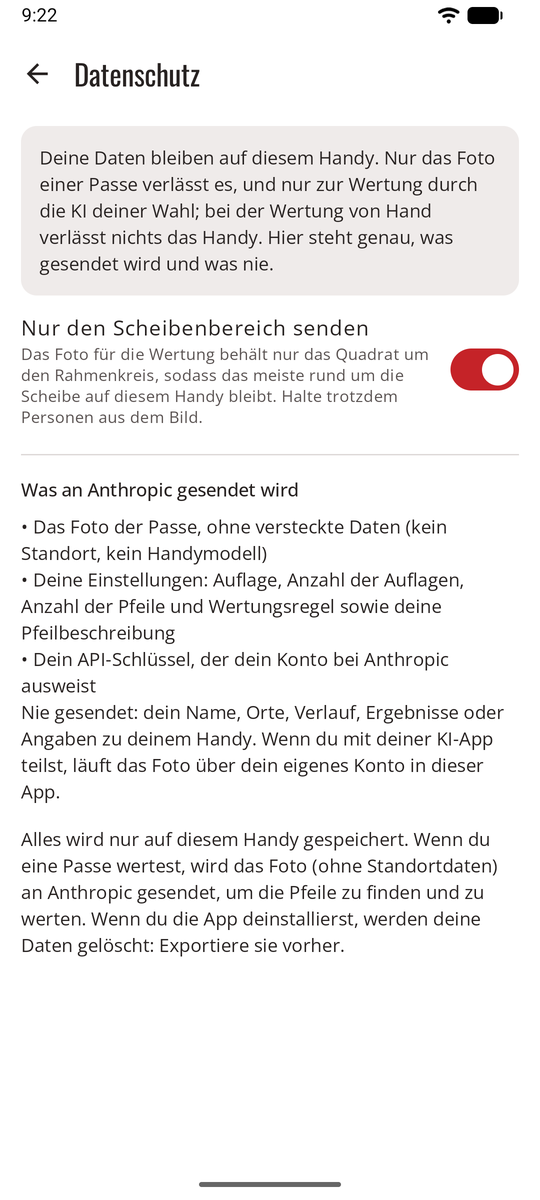
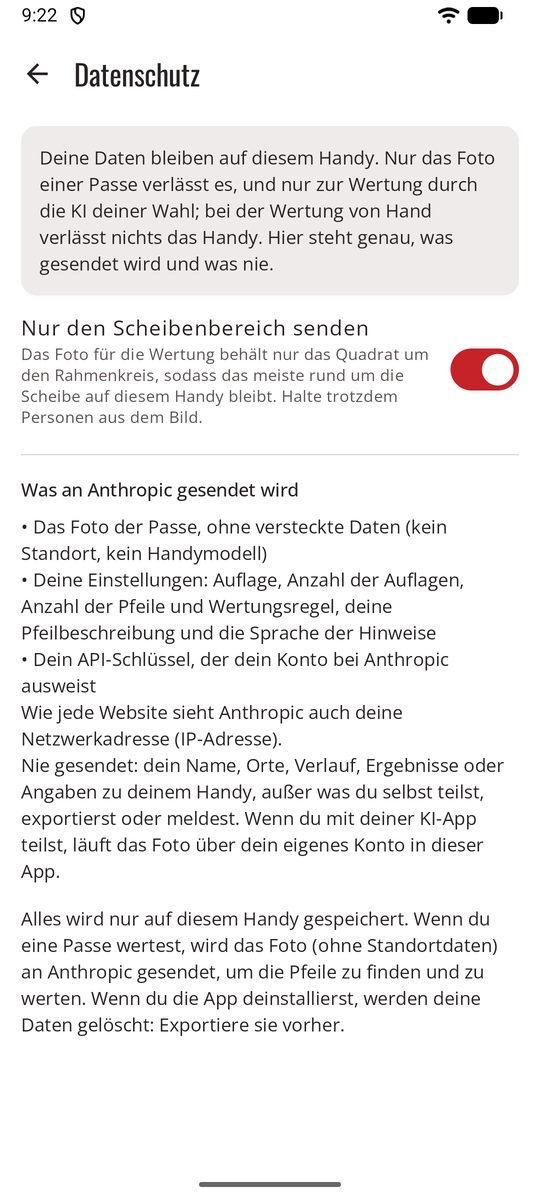
Update the sagitt·AI·re site

diff --git a/sagittaire/docs/stylesheets/extra.css b/sagittaire/docs/stylesheets/extra.css
@@ -1,4 +1,5 @@
 /* sagitt·AI·re is Archery Canada's app: its red, ink and white; Oswald for headings, Open Sans for text (theme font). */
+/* The privacy plugin (mkdocs.yml) downloads this at build time: the site serves the font itself. */
 @import url("https://fonts.googleapis.com/css2?family=Oswald:wght@500;600;700&display=swap");
 :root, [data-md-color-scheme="default"] {
   --md-primary-fg-color: #c52328;

diff --git a/sagittaire/docs/privacy-policy.fr.md b/sagittaire/docs/privacy-policy.fr.md
@@ -1,6 +1,6 @@
 # Politique de confidentialité
 
-*Version 3 · En vigueur le 13 novembre 2026*
+*Version 4 · En vigueur le 13 novembre 2026*
 
 La présente politique explique quels renseignements l’application sagitt·AI·re (l’« Application ») traite, où ils sont conservés, quand ils quittent votre appareil et ce que vous pouvez faire à leur égard. Elle fait partie des conditions d’utilisation. Le « Développeur » désigne le développeur de sagitt·AI·re.
 
@@ -37,13 +37,20 @@ Votre nom, vos lieux, votre historique, vos pointages et les détails de votre a
 
 **Signaler un problème de comptage.** Lorsque vous touchez Signaler un problème de comptage sur une volée, l’Application rédige un e-mail sur cette volée (blason, distance, règle, modèle d’IA, et chaque flèche telle que l’IA l’a comptée et telle qu’elle est maintenant) et, si vous cochez la case, y joint la copie de la photo envoyée au service d’IA. Votre application de messagerie s’ouvre sans destinataire : vous choisissez à qui l’envoyer, et rien n’est envoyé tant que vous ne l’envoyez pas. Vos arcs, lieux et dates n’y figurent pas.
 
-**Exportations.** Lorsque vous exportez vos registres, l’Application écrit un fichier à l’endroit que vous choisissez (par exemple, vos téléchargements ou un espace de stockage en ligne). Les clés API et les adresses des services ne sont jamais incluses dans une exportation. Gardez ce fichier en lieu sûr : quiconque l’a en main peut lire vos registres.
+**Exportations.** Lorsque vous exportez vos registres, l’Application écrit un fichier, non chiffré, à l’endroit que vous choisissez (par exemple, vos téléchargements ou un espace de stockage en ligne). Selon ce que vous choisissez d’exporter, il contient vos arcs, vos lieux, vos séances, vos volées, vos flèches et vos notes, la réponse du service d’IA pour chaque volée, vos réglages autres que les clés et les adresses, et les photos de vos volées en pleine taille et non recadrées, avec toute personne ou toute chose qui y figure. Les clés API et les adresses des services ne sont jamais incluses dans une exportation. Gardez ce fichier en lieu sûr et supprimez les copies dont vous n’avez plus besoin : quiconque l’a en main peut lire vos registres et voir vos photos.
 
 **Vérification d’une clé.** Le bouton « Vérifier la clé » envoie votre clé à son service pour confirmer qu’elle fonctionne.
 
 ## 4. Services d’IA
 
 Chaque service d’IA que vous utilisez est une entreprise distincte qui a ses propres conditions et sa propre politique de confidentialité. Ce sont elles qui déterminent comment il utilise, conserve et protège ce qu’il reçoit, notamment s’il peut s’en servir pour entraîner ses modèles, et où dans le monde il le traite, ce qui peut être à l’extérieur du Québec et du Canada. Lisez-les avant d’utiliser le service, et choisissez le service et les réglages de votre compte en conséquence. Le Développeur n’a aucun contrôle sur ces services et ne reçoit rien d’eux.
+
+En novembre 2026, les services que l’Application propose indiquent ce qui suit au sujet de ce qu’ils reçoivent par leurs API. Leurs propres conditions l’emportent et peuvent changer, et le site Web de sagitt·AI·re indique ce que chacun en dit :
+
+- ils le conservent jusqu’à 30 ou 55 jours, selon le service, pour détecter les abus, et certains le conservent jusqu’à 2 ans quand leurs systèmes de sécurité le signalent ;
+- certains vérifient les images à la recherche de matériel d’abus pédosexuel et conservent les images signalées pour examen ;
+- avec un compte payant, ils ne s’en servent pas pour entraîner leurs modèles ni pour améliorer leurs produits, sauf si vous l’acceptez dans votre compte ;
+- l’offre gratuite d’un des services s’en sert pour améliorer ses produits et permet à des examinateurs humains de le lire : avec ce service, utilisez une clé dont la facturation est activée, comme l’expliquent les Réglages de l’Application.
 
 ## 5. Autorisations
 
@@ -68,14 +75,18 @@ L’Application protège vos renseignements au moyen de l’isolement des applic
 
 L’Application ne s’adresse pas aux enfants de moins de 14 ans et ne recueille de renseignements auprès de personne. Les services d’IA fixent leur propre âge minimum. Un parent ou un tuteur devrait configurer tout service d’IA qu’un enfant utilise, ou choisir le comptage manuel, qui n’envoie rien.
 
-## 10. Modifications de la présente politique
+## 10. Le site Web
+
+Le site Web de sagitt·AI·re (ashencroft-hyperautomation.github.io/sagittaire) est hébergé par GitHub. Quand vous le visitez, GitHub reçoit votre adresse réseau (IP) et les pages que vous demandez, et les traite selon la Déclaration de confidentialité de GitHub ; le Développeur ne reçoit pas ces journaux. Le site Web n’a ni compte, ni témoins (cookies), ni outil d’analyse, ni publicité, ni pistage. Ses polices de caractères et ses autres fichiers sont servis par le site Web lui-même, de sorte que, dans un navigateur récent, le visiter ne contacte aucun autre service. Votre choix d’apparence claire ou sombre n’est mémorisé que par votre navigateur. Si vous ouvrez un ticket (issue) sur GitHub, ce que vous écrivez est public et traité par GitHub selon ses propres conditions.
+
+## 11. Modifications de la présente politique
 
 Si la présente politique change de façon importante, la nouvelle version sera affichée dans l’Application, avec sa date, et il vous sera demandé d’accepter de nouveau les conditions d’utilisation avant de continuer. La version en vigueur se trouve toujours dans l’Application (Réglages → À propos et mentions légales) et sur le site Web de sagitt·AI·re.
 
-## 11. Questions
+## 12. Questions
 
 L’Application et son site Web sont créés pro bono pour Tir à l’arc Canada et gérés par le Développeur. Pour toute question sur la présente politique, ouvrez un billet (« issue ») à l’adresse github.com/ashencroft-hyperautomation/ashencroft-hyperautomation.github.io/issues. Les billets sont publics : n’y incluez aucun renseignement personnel, aucune photo et aucune clé API.
 
-## 12. Langue
+## 13. Langue
 
 La présente politique est rédigée en français et en anglais, et les deux versions font également foi. *This policy is drawn up in French and in English ; both versions are equally authoritative.*

diff --git a/sagittaire/docs/privacy-policy.es.md b/sagittaire/docs/privacy-policy.es.md
@@ -1,6 +1,6 @@
 # Política de privacidad
 
-*Versión 3 · Vigente desde el 13 de noviembre de 2026*
+*Versión 4 · Vigente desde el 13 de noviembre de 2026*
 
 *Esta es una traducción que se ofrece solo para tu comodidad; únicamente las versiones en francés y en inglés hacen fe y, si hay cualquier diferencia, prevalecen sobre esta.*
 
@@ -39,13 +39,20 @@ Tu nombre, tus lugares, tu historial, tus puntuaciones y los datos de tu disposi
 
 **Informar de un problema de puntuación.** Cuando tocas Informar de un problema de puntuación en una tanda, la App redacta un correo sobre esa tanda (diana, distancia, regla, modelo de IA, y cada flecha tal como la puntuó la IA y como está ahora) y, si lo marcas, adjunta la copia de la foto que se envía al servicio de IA. Tu app de correo se abre sin destinatario: tú eliges a quién enviarlo, y no se envía nada hasta que lo envíes. Tus arcos, lugares y fechas no se incluyen.
 
-**Exportaciones.** Cuando exportas tus registros, la App escribe un archivo en el lugar que elijas (por ejemplo, tu carpeta de descargas o una unidad en la nube). Las claves de API y las direcciones de los servicios nunca se incluyen en una exportación. Guarda el archivo en un lugar privado: cualquiera que tenga el archivo puede leer tus registros.
+**Exportaciones.** Cuando exportas tus registros, la App escribe un archivo, sin cifrar, en el lugar que elijas (por ejemplo, tu carpeta de descargas o una unidad en la nube). Según lo que elijas exportar, contiene tus arcos, lugares, sesiones, tandas, flechas y notas, la respuesta del servicio de IA para cada tanda, tus ajustes salvo las claves y las direcciones, y las fotos de tus tandas a tamaño completo y sin recortar, con cualquier persona o cosa que aparezca en ellas. Las claves de API y las direcciones de los servicios nunca se incluyen en una exportación. Guarda el archivo en un lugar privado y borra las copias que ya no necesites: cualquiera que tenga el archivo puede leer tus registros y ver tus fotos.
 
 **Verificar una clave.** El botón «Comprobar clave» envía tu clave a su servicio para confirmar que funciona.
 
 ## 4. Servicios de IA
 
 Cada servicio de IA que usas es una empresa independiente con sus propias condiciones y su propia política de privacidad, que determinan cómo usa, conserva y protege lo que recibe, incluido si puede usarlo para entrenar sus modelos, y en qué lugar del mundo lo trata, que puede estar fuera de Québec y de Canadá. Léelas antes de usar el servicio, y elige el servicio y la configuración de tu cuenta en él en consecuencia. El Desarrollador no tiene ningún control sobre estos servicios y no recibe nada de ellos.
+
+A noviembre de 2026, los servicios que ofrece la App dicen lo siguiente sobre lo que reciben a través de sus API. Sus propias condiciones prevalecen y pueden cambiar, y el sitio web de sagitt·AI·re indica lo que dice cada uno:
+
+- lo conservan hasta 30 o 55 días, según el servicio, para detectar abusos, y algunos lo conservan hasta 2 años cuando sus sistemas de seguridad lo marcan;
+- algunos revisan las imágenes en busca de material de abuso sexual infantil y conservan las imágenes marcadas para su revisión;
+- con una cuenta de pago, no lo usan para entrenar sus modelos ni para mejorar sus productos, salvo que lo aceptes en tu cuenta;
+- el nivel gratuito de uno de los servicios lo usa para mejorar sus productos y permite que revisores humanos lo lean: con ese servicio, usa una clave con la facturación activada, como explican los Ajustes de la App.
 
 ## 5. Permisos
 
@@ -70,14 +77,18 @@ La App protege tu información con el aislamiento de aplicaciones (sandbox) de A
 
 La App no está dirigida a menores de 14 años y no recopila información de nadie. Los servicios de IA fijan sus propias edades mínimas. Un padre, una madre o un tutor debería configurar cualquier servicio de IA que use un menor, o elegir la puntuación manual, que no envía nada.
 
-## 10. Cambios en esta política
+## 10. El sitio web
+
+El sitio web de sagitt·AI·re (ashencroft-hyperautomation.github.io/sagittaire) está alojado por GitHub. Cuando lo visitas, GitHub recibe tu dirección de red (IP) y las páginas que pides, y las trata según la Declaración de privacidad de GitHub; el Desarrollador no recibe estos registros. El sitio web no tiene cuentas, cookies, analítica, publicidad ni rastreo. Sus fuentes y demás archivos se sirven desde el propio sitio web, así que, en un navegador actual, visitarlo no contacta con ningún otro servicio. Tu elección de apariencia clara u oscura solo la recuerda tu navegador. Si abres una incidencia (issue) en GitHub, lo que escribas es público y GitHub lo trata según sus propias condiciones.
+
+## 11. Cambios en esta política
 
 Si esta política cambia de forma sustancial, la nueva versión se mostrará en la App, con su fecha, y se te pedirá que vuelvas a aceptar las condiciones de uso antes de continuar. La versión vigente está siempre en la App (Ajustes → Información y aviso legal) y en el sitio web de sagitt·AI·re.
 
-## 11. Preguntas
+## 12. Preguntas
 
 La App y su sitio web están hechos pro bono para Archery Canada y los gestiona el Desarrollador. Si tienes preguntas sobre esta política, abre una incidencia (issue) en github.com/ashencroft-hyperautomation/ashencroft-hyperautomation.github.io/issues. Las incidencias son públicas: no incluyas información personal, fotos ni claves de API.
 
-## 12. Idioma
+## 13. Idioma
 
 Esta política está redactada en francés y en inglés; ambas versiones hacen igualmente fe. *Cette politique est rédigée en français et en anglais; les deux versions font également foi.*

diff --git a/sagittaire/docs/privacy-policy.md b/sagittaire/docs/privacy-policy.md
@@ -1,6 +1,6 @@
 # Privacy policy
 
-*Version 3 · Effective November 13, 2026*
+*Version 4 · Effective November 13, 2026*
 
 This policy explains what information the sagitt·AI·re application (the "App") handles, where it is kept, when it leaves your device and what you can do about it. It is part of the terms of use. "Developer" means the developer of sagitt·AI·re.
 
@@ -37,13 +37,20 @@ Your name, places, history, scores and details about your device are never sent.
 
 **Reporting a scoring problem.** When you tap Report a scoring problem on an end, the App writes an email about that end (face, distance, rule, AI model, and each arrow as the AI scored it and as it is now) and, if you tick it, attaches the copy of the photo sent to the AI service. Your email app opens with no recipient: you choose who to send it to, and nothing is sent until you send it. Your bows, places and dates are not included.
 
-**Exports.** When you export your records, the App writes one file where you choose (for example, your Downloads or a cloud drive). API keys and service addresses are never put in an export. Keep the file somewhere private: anyone with the file can read your records.
+**Exports.** When you export your records, the App writes one file, which is not encrypted, where you choose (for example, your Downloads or a cloud drive). Depending on what you choose to export, it holds your bows, places, sessions, ends, arrows and notes, the AI service's answer for each end, your settings other than keys and addresses, and the photos of your ends at full size and uncropped, with anyone or anything that appears in them. API keys and service addresses are never put in an export. Keep the file somewhere private and delete copies you no longer need: anyone with the file can read your records and see your photos.
 
 **Checking a key.** The "Check key" button sends your key to its service to confirm it works.
 
 ## 4. AI services
 
 Each AI service you use is a separate company with its own terms and privacy policy, which decide how it uses, keeps and protects what it receives, including whether it may use it to train its models, and where in the world it processes it, which may be outside Québec and Canada. Read them before you use the service, and choose the service and the settings of your account with it accordingly. The Developer has no control over these services and receives nothing from them.
+
+As of November 2026, the services the App offers say this about what they receive through their APIs. Their own terms prevail and may change, and the sagitt·AI·re website lists what each one says:
+
+- they keep it for up to 30 or 55 days, depending on the service, to detect abuse, and some keep it up to 2 years when their safety systems flag it;
+- some check images for child sexual abuse material and keep flagged images for review;
+- with a paid account, they do not use it to train their models or improve their products, unless you agree to it in your account;
+- one service's free tier uses it to improve its products and lets human reviewers read it: with that service, use a key with billing turned on, as the App's Settings explain.
 
 ## 5. Permissions
 
@@ -68,14 +75,18 @@ The App protects your information with Android's app sandbox, encrypts your API 
 
 The App is not directed at children under 14 and collects no information from anyone. AI services set their own minimum ages. A parent or guardian should set up any AI service a child uses, or choose manual scoring, which sends nothing.
 
-## 10. Changes to this policy
+## 10. The website
+
+The sagitt·AI·re website (ashencroft-hyperautomation.github.io/sagittaire) is hosted by GitHub. When you visit it, GitHub receives your network (IP) address and the pages you ask for, and handles them under the GitHub Privacy Statement; the Developer does not receive these logs. The website has no account, no cookies, no analytics, no advertising and no tracking. Its fonts and other files are served from the website itself, so in a current browser, visiting it contacts no other service. Your choice of light or dark appearance is remembered by your browser only. If you open an issue on GitHub, what you write is public and handled by GitHub under its own terms.
+
+## 11. Changes to this policy
 
 If this policy changes in substance, the new version will be shown in the App, with its date, and you will be asked to accept the terms of use again before continuing. The current version is always in the App (Settings → About and legal) and on the sagitt·AI·re website.
 
-## 11. Questions
+## 12. Questions
 
 The App and its website are made pro bono for Archery Canada and run by the Developer. For questions about this policy, open an issue at github.com/ashencroft-hyperautomation/ashencroft-hyperautomation.github.io/issues. Issues are public: do not include personal information, photos or API keys.
 
-## 12. Language
+## 13. Language
 
 This policy is drawn up in French and in English; both versions are equally authoritative. *Cette politique est rédigée en français et en anglais; les deux versions font également foi.*

diff --git a/sagittaire/docs/privacy.de.md b/sagittaire/docs/privacy.de.md
@@ -13,7 +13,7 @@ Das ist alles: deine Bögen und Orte, deine Einheiten, jede Passe mit ihrem Foto
 - Andere Apps können es nicht lesen, und die Fotos sind nicht in deiner Galerie.
 - Nichts geht automatisch in eine Cloud-Sicherung oder auf ein neues Handy.
 - Es gibt kein Konto, keine Werbung, keine Analyse und kein Tracking.
-- **Wenn du die App deinstallierst, wird alles gelöscht**, also exportiere vorher: **Einstellungen → Speicher und Sicherung** speichert alles in eine Datei, die du behältst, und stellt es auf demselben oder einem neuen Handy wieder her. API-Schlüssel und Adressen von Diensten kommen nie in einen Export.
+- **Wenn du die App deinstallierst, wird alles gelöscht**, also exportiere vorher: **Einstellungen → Speicher und Sicherung** speichert alles in eine Datei, die du behältst, und stellt es auf demselben oder einem neuen Handy wieder her. API-Schlüssel und Adressen von Diensten kommen nie in einen Export. Die Datei ist nicht verschlüsselt und enthält deine Fotos in voller Größe, unbeschnitten: Bewahre sie an einem privaten Ort auf.
 
 ## Was gesendet wird, und wann { #what-is-sent-and-when }
 
@@ -45,11 +45,13 @@ Die Einstellungen zeigen dieselbe Liste unter **Was an … gesendet wird**, für
 
 | Dienst | Zum Trainieren von KI genutzt? | Aufbewahrt |
 |---------|-------------------|------|
-| **Anthropic** | Nein | Nach den kommerziellen Bedingungen von Anthropic |
-| **OpenAI** | Nein, außer du stimmst in deinem Konto zu | sagitt·AI·re bittet OpenAI, die Anfrage nicht zu speichern. Sicherheitsprotokolle werden bis zu 30 Tage aufbewahrt. |
-| **Google Gemini**, mit aktivierter Abrechnung | Nein | Für begrenzte Zeit protokolliert, um Missbrauch zu erkennen |
+| **Anthropic** | Nein | Innerhalb von 30 Tagen gelöscht; bis zu 2 Jahre, wenn seine Sicherheitssysteme es markieren |
+| **OpenAI** | Nein, außer du stimmst in deinem Konto zu | sagitt·AI·re bittet OpenAI, die Anfrage nicht zu speichern. Sicherheitsprotokolle werden bis zu 30 Tage aufbewahrt. Bilder werden auf Darstellungen sexuellen Kindesmissbrauchs geprüft. |
+| **Google Gemini**, mit aktivierter Abrechnung | Nein | 55 Tage protokolliert, um Missbrauch zu erkennen |
 | **Google Gemini**, kostenlose Stufe | **Ja**: kann genutzt werden, um die Produkte von Google zu verbessern, und von menschlichen Prüfern gelesen werden | Nicht angegeben |
 | **Ein OpenAI-kompatibler Dienst** oder **deine KI-App** | Hängt von diesem Dienst ab: Prüf seine Bedingungen | Hängt von diesem Dienst ab |
+
+So, wie es jeder Dienst im November 2026 angibt; ihre eigenen Bedingungen haben Vorrang und können sich ändern. Der verbindliche Text steht in der [Datenschutzerklärung](privacy-policy.md), Abschnitt 4.
 
 !!! warning "Gemini: Nimm einen Schlüssel mit aktivierter Abrechnung"
     In der kostenlosen Stufe von Google können deine Scheibenfotos von Google genutzt und von Prüfern gesehen werden. Nimm einen Schlüssel aus einem Google-Cloud-Projekt mit aktivierter Abrechnung. sagitt·AI·re kann das nicht für dich prüfen.
@@ -74,5 +76,9 @@ Der Spielmodus sendet nichts. Das Aussehen deiner Figur, dein Begleiter und dein
 | Internet | Für die automatische Wertung mit einem KI-Dienst (bei der Wertung von Hand nicht genutzt) |
 
 Keine Berechtigungen für Standort, Kontakte, Mikrofon oder Speicher. Zum Importieren eines Fotos dient die Fotoauswahl von Android, die sagitt·AI·re nur das Foto gibt, das du wählst.
+
+## Diese Website { #this-website }
+
+Diese Website wird von GitHub gehostet, das beim Besuch deine Netzwerkadresse (IP-Adresse) sieht. Es gibt keine Cookies, keine Analyse und kein Tracking, und die Schriften kommen von dieser Website, nicht von Google. Deine Wahl zwischen hell und dunkel merkt sich nur dein Browser.
 
 Mehr dazu, wie deine Daten geschützt sind: [Sicherheit](security.md).

diff --git a/sagittaire/docs/privacy.fr.md b/sagittaire/docs/privacy.fr.md
@@ -13,7 +13,7 @@ C'est tout : vos arcs et vos lieux, vos séances, chaque volée avec sa photo, 
 - Les autres applications ne peuvent pas les lire, et les photos ne sont pas dans votre galerie.
 - Rien ne part automatiquement vers une sauvegarde en ligne ou un nouveau téléphone.
 - Pas de compte, pas de publicité, pas de statistiques d'utilisation, pas de pistage.
-- **Désinstaller l'application efface tout**, alors exportez d'abord : **Réglages → Stockage et sauvegarde** enregistre tout dans un fichier que vous gardez, et le restaure sur le même téléphone ou un nouveau. Les clés API et les adresses de service ne sont jamais mises dans un export.
+- **Désinstaller l'application efface tout**, alors exportez d'abord : **Réglages → Stockage et sauvegarde** enregistre tout dans un fichier que vous gardez, et le restaure sur le même téléphone ou un nouveau. Les clés API et les adresses de service ne sont jamais mises dans un export. Le fichier n'est pas chiffré et contient vos photos en pleine taille, non recadrées : gardez-le en lieu sûr.
 
 ## Ce qui est envoyé, et quand
 
@@ -45,11 +45,13 @@ Les réglages affichent la même liste, sous **Ce qui est envoyé à …**, pour
 
 | Service | Sert à entraîner une IA ? | Conservation |
 |---------|---------------------------|--------------|
-| **Anthropic** | Non | Selon les conditions commerciales d'Anthropic |
-| **OpenAI** | Non, sauf si vous l'acceptez sur votre compte | sagitt·AI·re demande à OpenAI de ne pas garder la requête. Journaux de sécurité gardés jusqu'à 30 jours. |
-| **Google Gemini**, facturation activée | Non | Journalisé pendant une durée limitée pour détecter les abus |
+| **Anthropic** | Non | Supprimé dans les 30 jours ; jusqu'à 2 ans si ses systèmes de sécurité le signalent |
+| **OpenAI** | Non, sauf si vous l'acceptez sur votre compte | sagitt·AI·re demande à OpenAI de ne pas garder la requête. Journaux de sécurité gardés jusqu'à 30 jours. Les images sont vérifiées à la recherche de matériel d'abus pédosexuel. |
+| **Google Gemini**, facturation activée | Non | Journalisé 55 jours pour détecter les abus |
 | **Google Gemini**, offre gratuite | **Oui** : peut servir à améliorer les produits de Google, et être lu par des personnes | Non précisé |
 | **Un service compatible OpenAI**, ou **votre application d’IA** | Selon ce service : consultez ses conditions | Selon ce service |
+
+Tel que chaque service l'indique en novembre 2026 ; leurs propres conditions l'emportent et peuvent changer. Le texte officiel est dans la [politique de confidentialité](privacy-policy.md), section 4.
 
 !!! warning "Gemini : utilisez une clé avec la facturation activée"
     Avec l'offre gratuite de Google, vos photos de cible peuvent être utilisées par Google et vues par des examinateurs. Utilisez une clé d'un projet Google Cloud avec la facturation activée. sagitt·AI·re ne peut pas le vérifier à votre place.
@@ -74,5 +76,9 @@ Le mode jeu n’envoie rien. L’apparence de votre archer, votre compagnon et v
 | Internet | Pour le comptage automatique par un service d’IA (inutile en comptage manuel) |
 
 Aucune autorisation de position, de contacts, de micro ou de stockage. L'import d'une photo passe par le sélecteur de photos d'Android, qui ne donne à sagitt·AI·re que la photo que vous choisissez.
+
+## Ce site Web
+
+Ce site Web est hébergé par GitHub, qui voit votre adresse réseau (IP) quand vous le visitez. Il n'y a ni témoins (cookies), ni outil d'analyse, ni pistage, et ses polices de caractères viennent de ce site, pas de Google. Votre choix d'apparence claire ou sombre n'est mémorisé que par votre navigateur.
 
 Pour en savoir plus sur la protection de vos données : [Sécurité](security.md).

diff --git a/sagittaire/docs/privacy.es.md b/sagittaire/docs/privacy.es.md
@@ -13,7 +13,7 @@ Eso es todo: tus arcos y lugares, tus sesiones, cada tanda con su foto y cada fl
 - Otras apps no pueden leerlo, y las fotos no están en tu galería.
 - Nada va automáticamente a una copia de seguridad en la nube ni a un teléfono nuevo.
 - No hay cuenta, ni publicidad, ni analítica, ni seguimiento.
-- **Desinstalar la app lo borra todo**, así que exporta antes: **Ajustes → Almacenamiento y copia de seguridad** guarda todo en un archivo que conservas, y lo restaura en el mismo teléfono o en uno nuevo. Las claves de API y las direcciones de los servicios nunca se incluyen en una exportación.
+- **Desinstalar la app lo borra todo**, así que exporta antes: **Ajustes → Almacenamiento y copia de seguridad** guarda todo en un archivo que conservas, y lo restaura en el mismo teléfono o en uno nuevo. Las claves de API y las direcciones de los servicios nunca se incluyen en una exportación. El archivo no está cifrado y contiene tus fotos a tamaño completo, sin recortar: guárdalo en un lugar privado.
 
 ## Qué se envía, y cuándo { #what-is-sent-and-when }
 
@@ -45,11 +45,13 @@ Ajustes muestra la misma lista, en **Qué se envía a …**, para el servicio qu
 
 | Servicio | ¿Se usa para entrenar IA? | Se conserva |
 |---------|-------------------|------|
-| **Anthropic** | No | Según las condiciones comerciales de Anthropic |
-| **OpenAI** | No, salvo que lo aceptes en tu cuenta | sagitt·AI·re pide a OpenAI que no guarde la solicitud. Los registros de seguridad se conservan hasta 30 días. |
-| **Google Gemini**, con facturación | No | Se registra durante un tiempo limitado para detectar abusos |
+| **Anthropic** | No | Se borra en un plazo de 30 días; hasta 2 años si sus sistemas de seguridad lo marcan |
+| **OpenAI** | No, salvo que lo aceptes en tu cuenta | sagitt·AI·re pide a OpenAI que no guarde la solicitud. Los registros de seguridad se conservan hasta 30 días. Las imágenes se revisan en busca de material de abuso sexual infantil. |
+| **Google Gemini**, con facturación | No | Se registra 55 días para detectar abusos |
 | **Google Gemini**, nivel gratuito | **Sí**: puede usarse para mejorar los productos de Google, y revisores humanos pueden leerlo | No se indica |
 | **Un servicio compatible con OpenAI**, o **tu app de IA** | Depende de ese servicio: consulta sus condiciones | Depende de ese servicio |
+
+Según lo indica cada servicio en noviembre de 2026; sus propias condiciones prevalecen y pueden cambiar. El texto formal está en la [política de privacidad](privacy-policy.md), sección 4.
 
 !!! warning "Gemini: usa una clave con facturación"
     En el nivel gratuito de Google, tus fotos de dianas pueden ser usadas por Google y vistas por revisores. Usa una clave de un proyecto de Google Cloud con la facturación activada. sagitt·AI·re no puede comprobarlo por ti.
@@ -74,5 +76,9 @@ El modo juego no envía nada. El aspecto de tu arquero, tu compañero y tus ajus
 | Internet | Para la puntuación automática con un servicio de IA (no se usa en la puntuación manual) |
 
 Ningún permiso de ubicación, contactos, micrófono ni almacenamiento. Importar una foto usa el selector de fotos de Android, que solo le da a sagitt·AI·re la foto que eliges.
+
+## Este sitio web { #this-website }
+
+Este sitio web está alojado por GitHub, que ve tu dirección de red (IP) cuando lo visitas. No hay cookies, analítica ni rastreo, y sus fuentes vienen de este sitio, no de Google. Tu elección de apariencia clara u oscura solo la recuerda tu navegador.
 
 Más sobre cómo se protegen tus datos: [Seguridad](security.md).

diff --git a/sagittaire/docs/privacy.md b/sagittaire/docs/privacy.md
@@ -13,7 +13,7 @@ That's all of it: your bows and places, your sessions, each end with its photo, 
 - Other apps can't read them, and the photos are not in your gallery.
 - Nothing goes to a cloud backup or to a new phone automatically.
 - There's no account, no advertising, no analytics and no tracking.
-- **Uninstalling the app deletes everything**, so export first: **Settings → Storage and backup** saves everything to one file you keep, and restores it on the same or a new phone. API keys and service addresses are never put in an export.
+- **Uninstalling the app deletes everything**, so export first: **Settings → Storage and backup** saves everything to one file you keep, and restores it on the same or a new phone. API keys and service addresses are never put in an export. The file is not encrypted and holds your photos at full size, uncropped: keep it somewhere private.
 
 ## What is sent, and when
 
@@ -45,11 +45,13 @@ Settings shows the same list, under **What is sent to …**, for the service you
 
 | Service | Used to train AI? | Kept |
 |---------|-------------------|------|
-| **Anthropic** | No | Under Anthropic's commercial terms |
-| **OpenAI** | No, unless you opt in on your account | sagitt·AI·re asks OpenAI not to store the request. Safety logs are kept up to 30 days. |
-| **Google Gemini**, with billing on | No | Logged for a limited time for abuse detection |
+| **Anthropic** | No | Deleted within 30 days; up to 2 years if its safety systems flag it |
+| **OpenAI** | No, unless you opt in on your account | sagitt·AI·re asks OpenAI not to store the request. Safety logs are kept up to 30 days. Images are checked for child sexual abuse material. |
+| **Google Gemini**, with billing on | No | Logged 55 days for abuse detection |
 | **Google Gemini**, free tier | **Yes**: may be used to improve Google's products, and read by human reviewers | Not stated |
 | **An OpenAI-compatible service**, or **your AI app** | Depends on that service: check its terms | Depends on that service |
+
+As each service states it in November 2026; their own terms prevail and may change. The formal text is in the [privacy policy](privacy-policy.md), section 4.
 
 !!! warning "Gemini: use a key with billing on"
     On Google's free tier, your target photos may be used by Google and seen by reviewers. Use a key from a Google Cloud project with billing turned on. sagitt·AI·re can't check this for you.
@@ -74,5 +76,9 @@ Game mode sends nothing. Your archer's look, your companion and your sound setti
 | Internet | For automatic scoring with an AI service (not used in manual scoring) |
 
 No location, contacts, microphone or storage permissions. Importing a photo uses Android's photo picker, which only gives sagitt·AI·re the photo you choose.
+
+## This website
+
+This website is hosted by GitHub, which sees your network (IP) address when you visit. There are no cookies, no analytics and no tracking, and its fonts come from this site, not from Google. Your light or dark choice is remembered by your browser only.
 
 More on how your data is protected: [Security](security.md).

diff --git a/sagittaire/docs/terms.fr.md b/sagittaire/docs/terms.fr.md
@@ -1,6 +1,6 @@
 # Conditions d’utilisation
 
-*Version 3 · En vigueur le 13 novembre 2026*
+*Version 4 · En vigueur le 13 novembre 2026*
 
 Veuillez lire attentivement les présentes conditions. Elles constituent une entente juridique entre vous et le développeur de sagitt·AI·re (le « Développeur »). En touchant **Accepter et continuer**, ou en installant, en ouvrant ou en utilisant de toute autre façon l’application sagitt·AI·re (l’« Application »), vous confirmez avoir lu, compris et accepté les présentes conditions. Si vous ne les acceptez pas, n’utilisez pas l’Application et désinstallez-la.
 

diff --git a/sagittaire/docs/terms.md b/sagittaire/docs/terms.md
@@ -1,6 +1,6 @@
 # Terms of use
 
-*Version 3 · Effective November 13, 2026*
+*Version 4 · Effective November 13, 2026*
 
 Please read these terms carefully. They form a legal agreement between you and the developer of sagitt·AI·re (the "Developer"). By tapping **Accept and continue**, or by installing, opening or otherwise using the sagitt·AI·re application (the "App"), you confirm that you have read, understood and accepted these terms. If you do not accept them, do not use the App and uninstall it.
 

diff --git a/sagittaire/docs/terms.es.md b/sagittaire/docs/terms.es.md
@@ -1,6 +1,6 @@
 # Condiciones de uso
 
-*Versión 3 · Vigente desde el 13 de noviembre de 2026*
+*Versión 4 · Vigente desde el 13 de noviembre de 2026*
 
 *Esta es una traducción que se ofrece solo para tu comodidad; únicamente las versiones en francés y en inglés hacen fe y, si hay cualquier diferencia, prevalecen sobre esta.*
 
